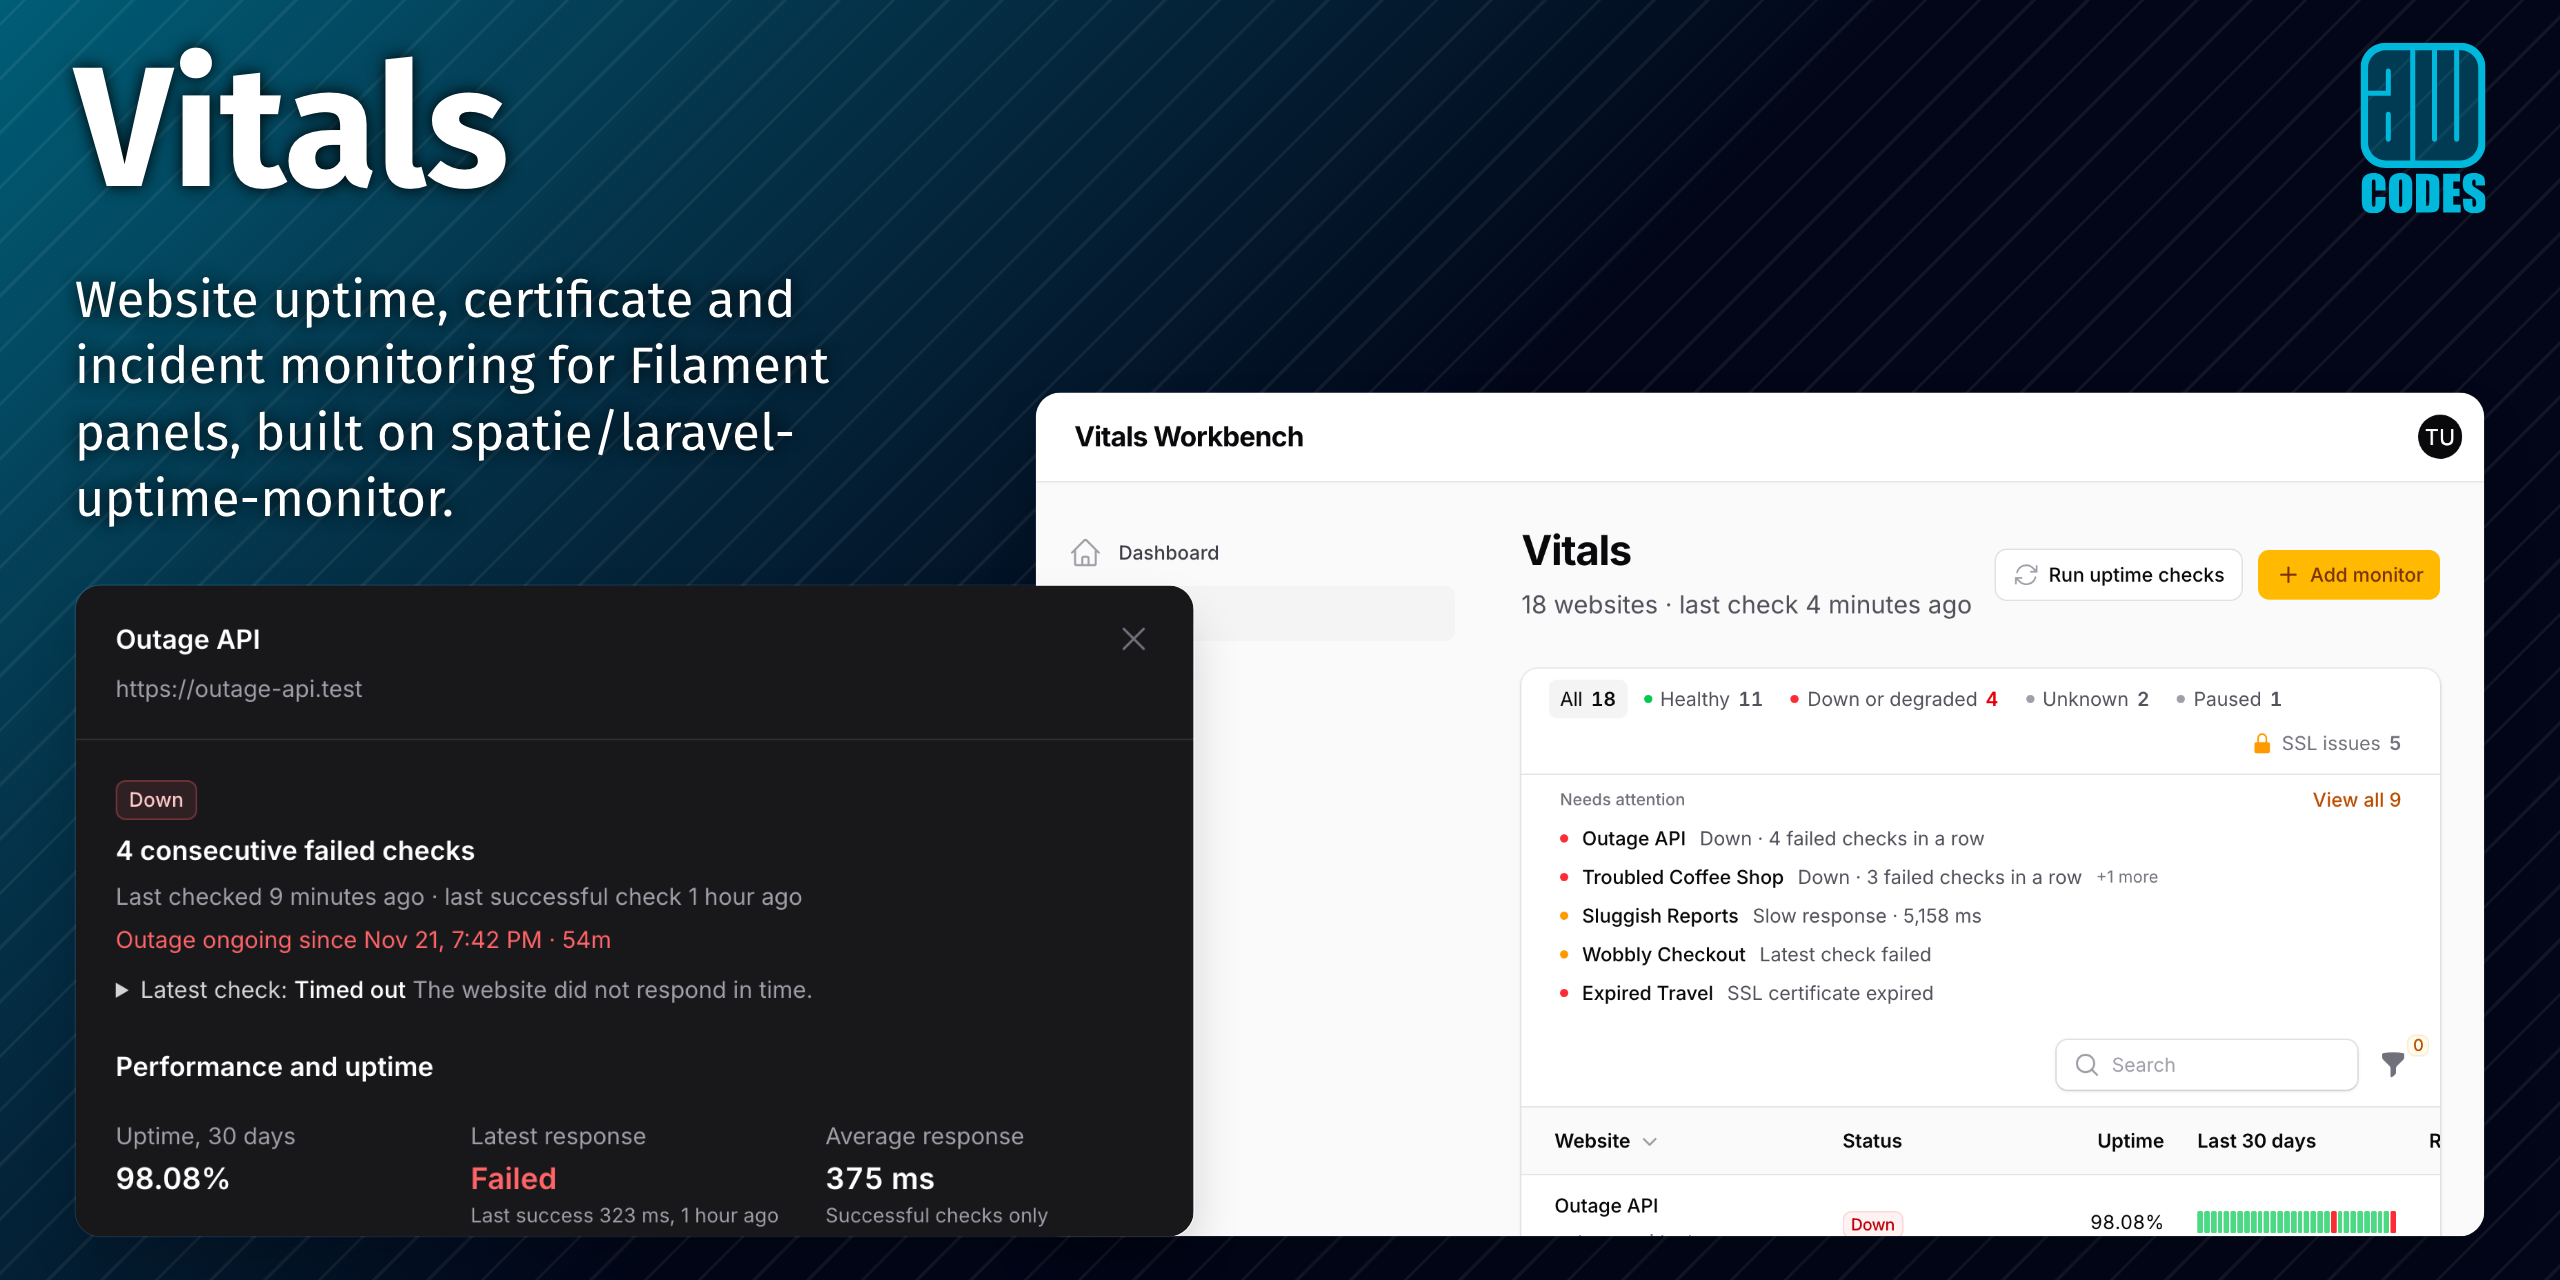
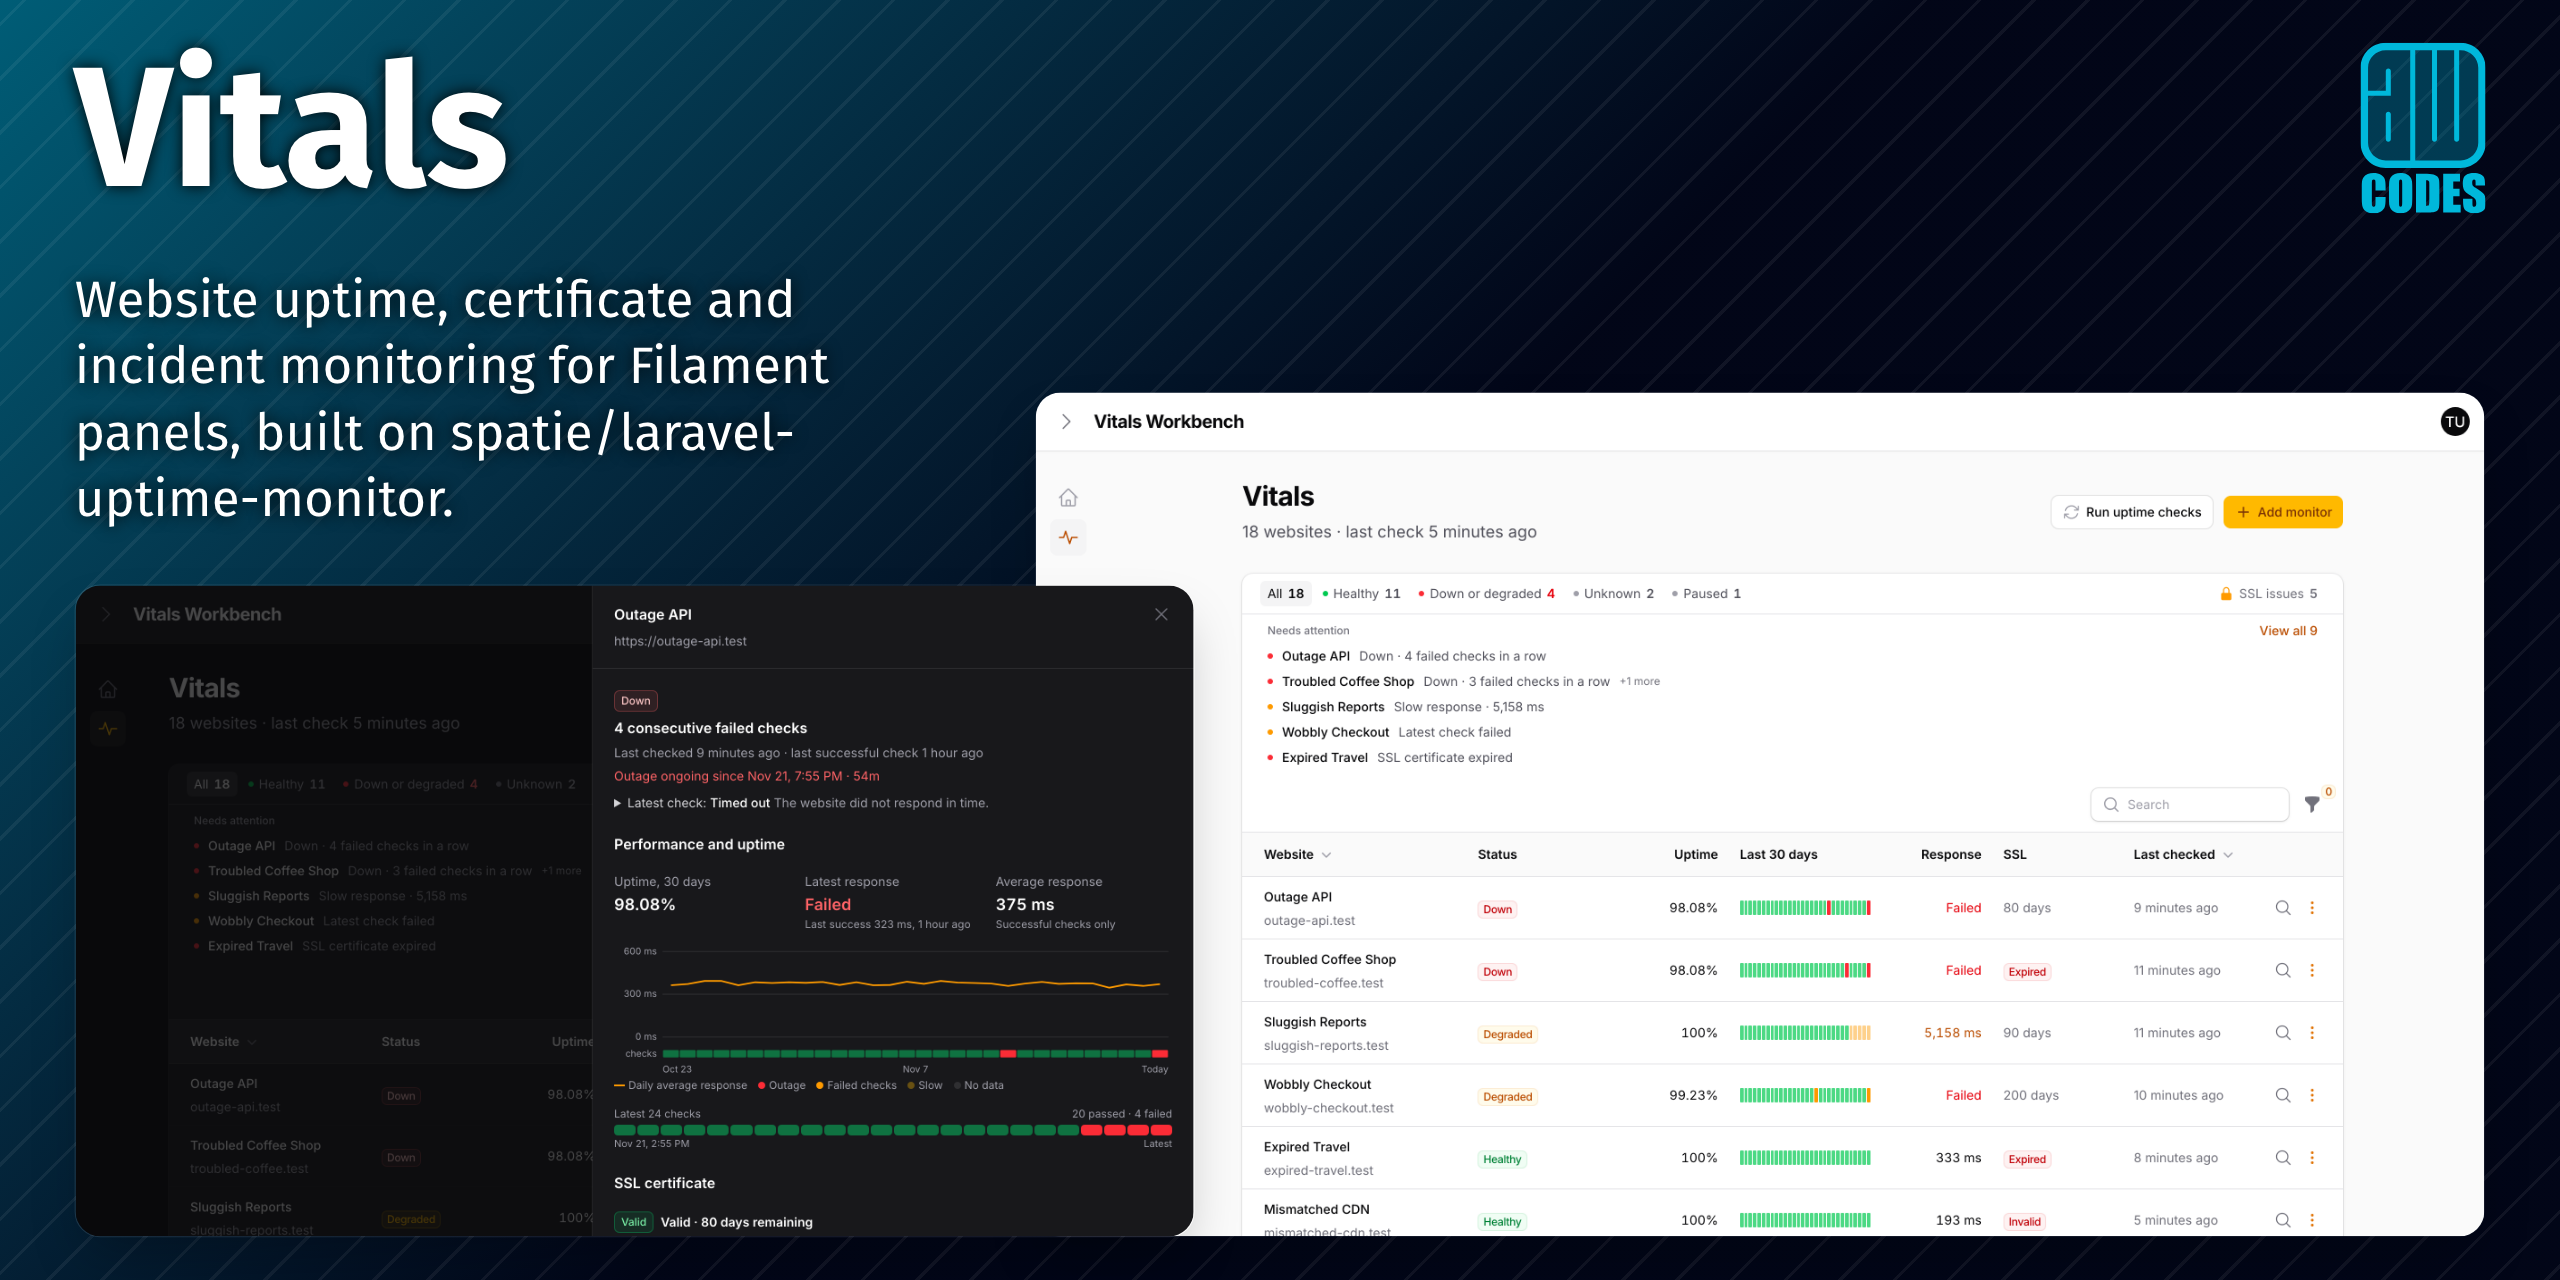
Show more of the page in the share cards
- The page card collapses the sidebar and captures a larger viewport, so
  the table runs the full width with several rows visible.
- The slide-over card captures the whole page with the slide-over open,
  so it reads in context rather than as an isolated panel.
- The Workbench panel enables sidebarCollapsibleOnDesktop() so the
  sidebar can be collapsed; the docs screenshots are regenerated with
  its toggle.

diff --git a/focus.php b/focus.php
@@ -18,12 +18,12 @@ use Awcodes\Focus\ScreenshotSuite;
 $firstIssue = '[wire\:key^="monitor-issue-"]:first-child > button';
 
 // The awcodes card templates frame each screenshot at 1400x816. Card sources are
-// captured in that shape at three quarters and half size, and the templates
-// scale them up.
-$cardPage = [1050, 612];
-// The slide-over is 42rem (672px) wide, so its card source is captured at that
-// width and fills the frame edge to edge.
-$cardInspect = [672, 392];
+// captured in that shape, larger than the frame so more of the page fits, and
+// the templates scale them down. The sidebar is collapsed so the table runs
+// the full width.
+$cardPage = [1600, 933];
+$cardInspect = [1250, 729];
+$collapseSidebar = '.fi-topbar-close-collapse-sidebar-btn';
 
 return ScreenshotSuite::make()
     ->screenshots([
@@ -47,15 +47,18 @@ return ScreenshotSuite::make()
         // two-up templates show slot 1 dark, small and in front at the lower left,
         // and slot 2 light as the large screenshot at the back on the right. The
         // page is the main subject, so it takes the large slot and the slide-over
-        // the small one; both are captured in both themes.
+        // the small one, open over the page so it reads in context. Both are captured
+        // in both themes.
         Screenshot::make('card-page')
             ->viewportSize(...$cardPage)
             ->visit('/admin/vitals')
+            ->click($collapseSidebar)
             ->viewport(),
 
         Screenshot::make('card-inspect')
             ->viewportSize(...$cardInspect)
             ->visit('/admin/vitals')
+            ->click($collapseSidebar)
             ->click($firstIssue)
             ->waitFor('.vitals-inspect')
             ->viewport(),

diff --git a/workbench/app/Providers/Filament/AdminPanelProvider.php b/workbench/app/Providers/Filament/AdminPanelProvider.php
@@ -31,6 +31,7 @@ class AdminPanelProvider extends PanelProvider
             ->id('admin')
             ->path('admin')
             ->login(Login::class)
+            ->sidebarCollapsibleOnDesktop()
             ->plugin(VitalsPlugin::make())
             ->theme(Theme::make('workbench')->html(
                 fn (): string => route('workbench.theme'),
